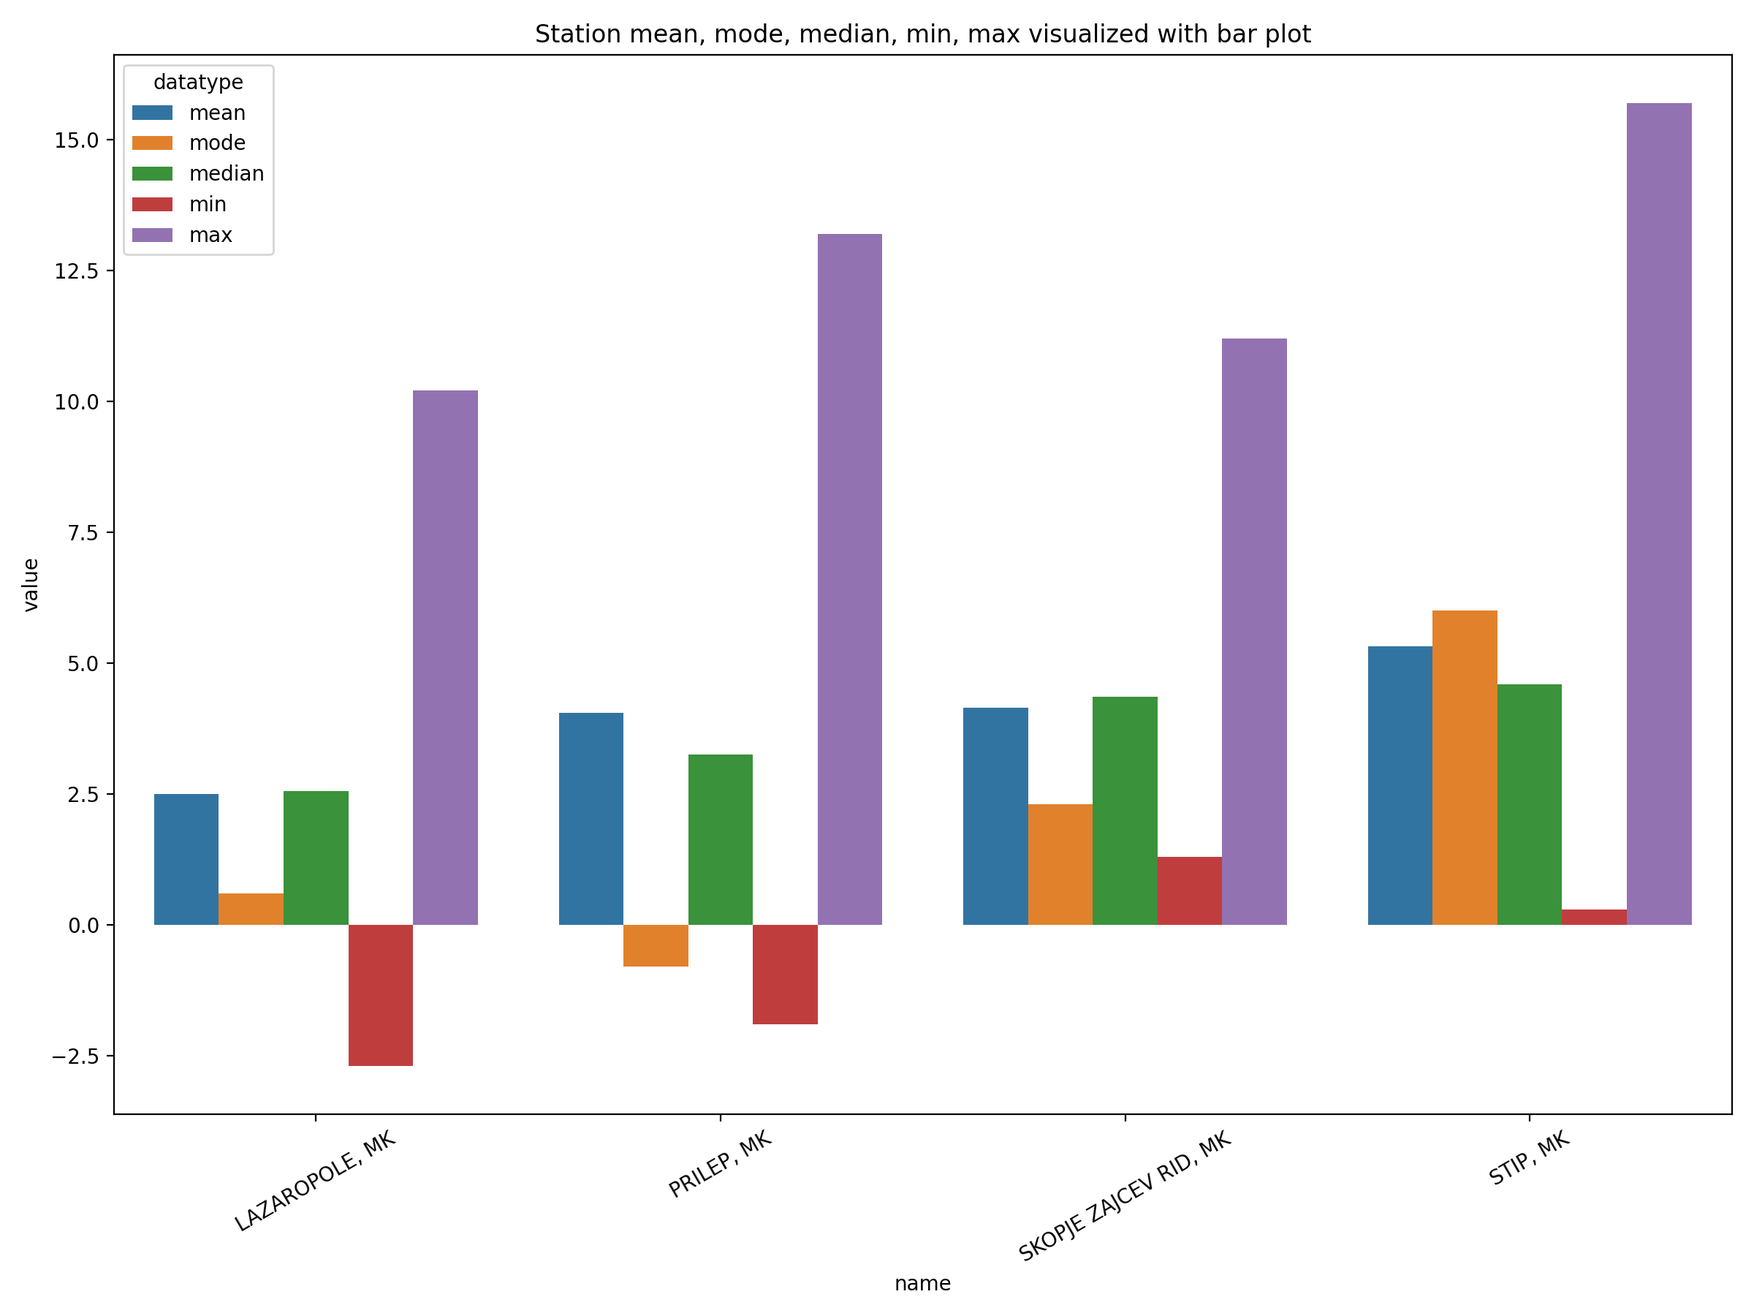
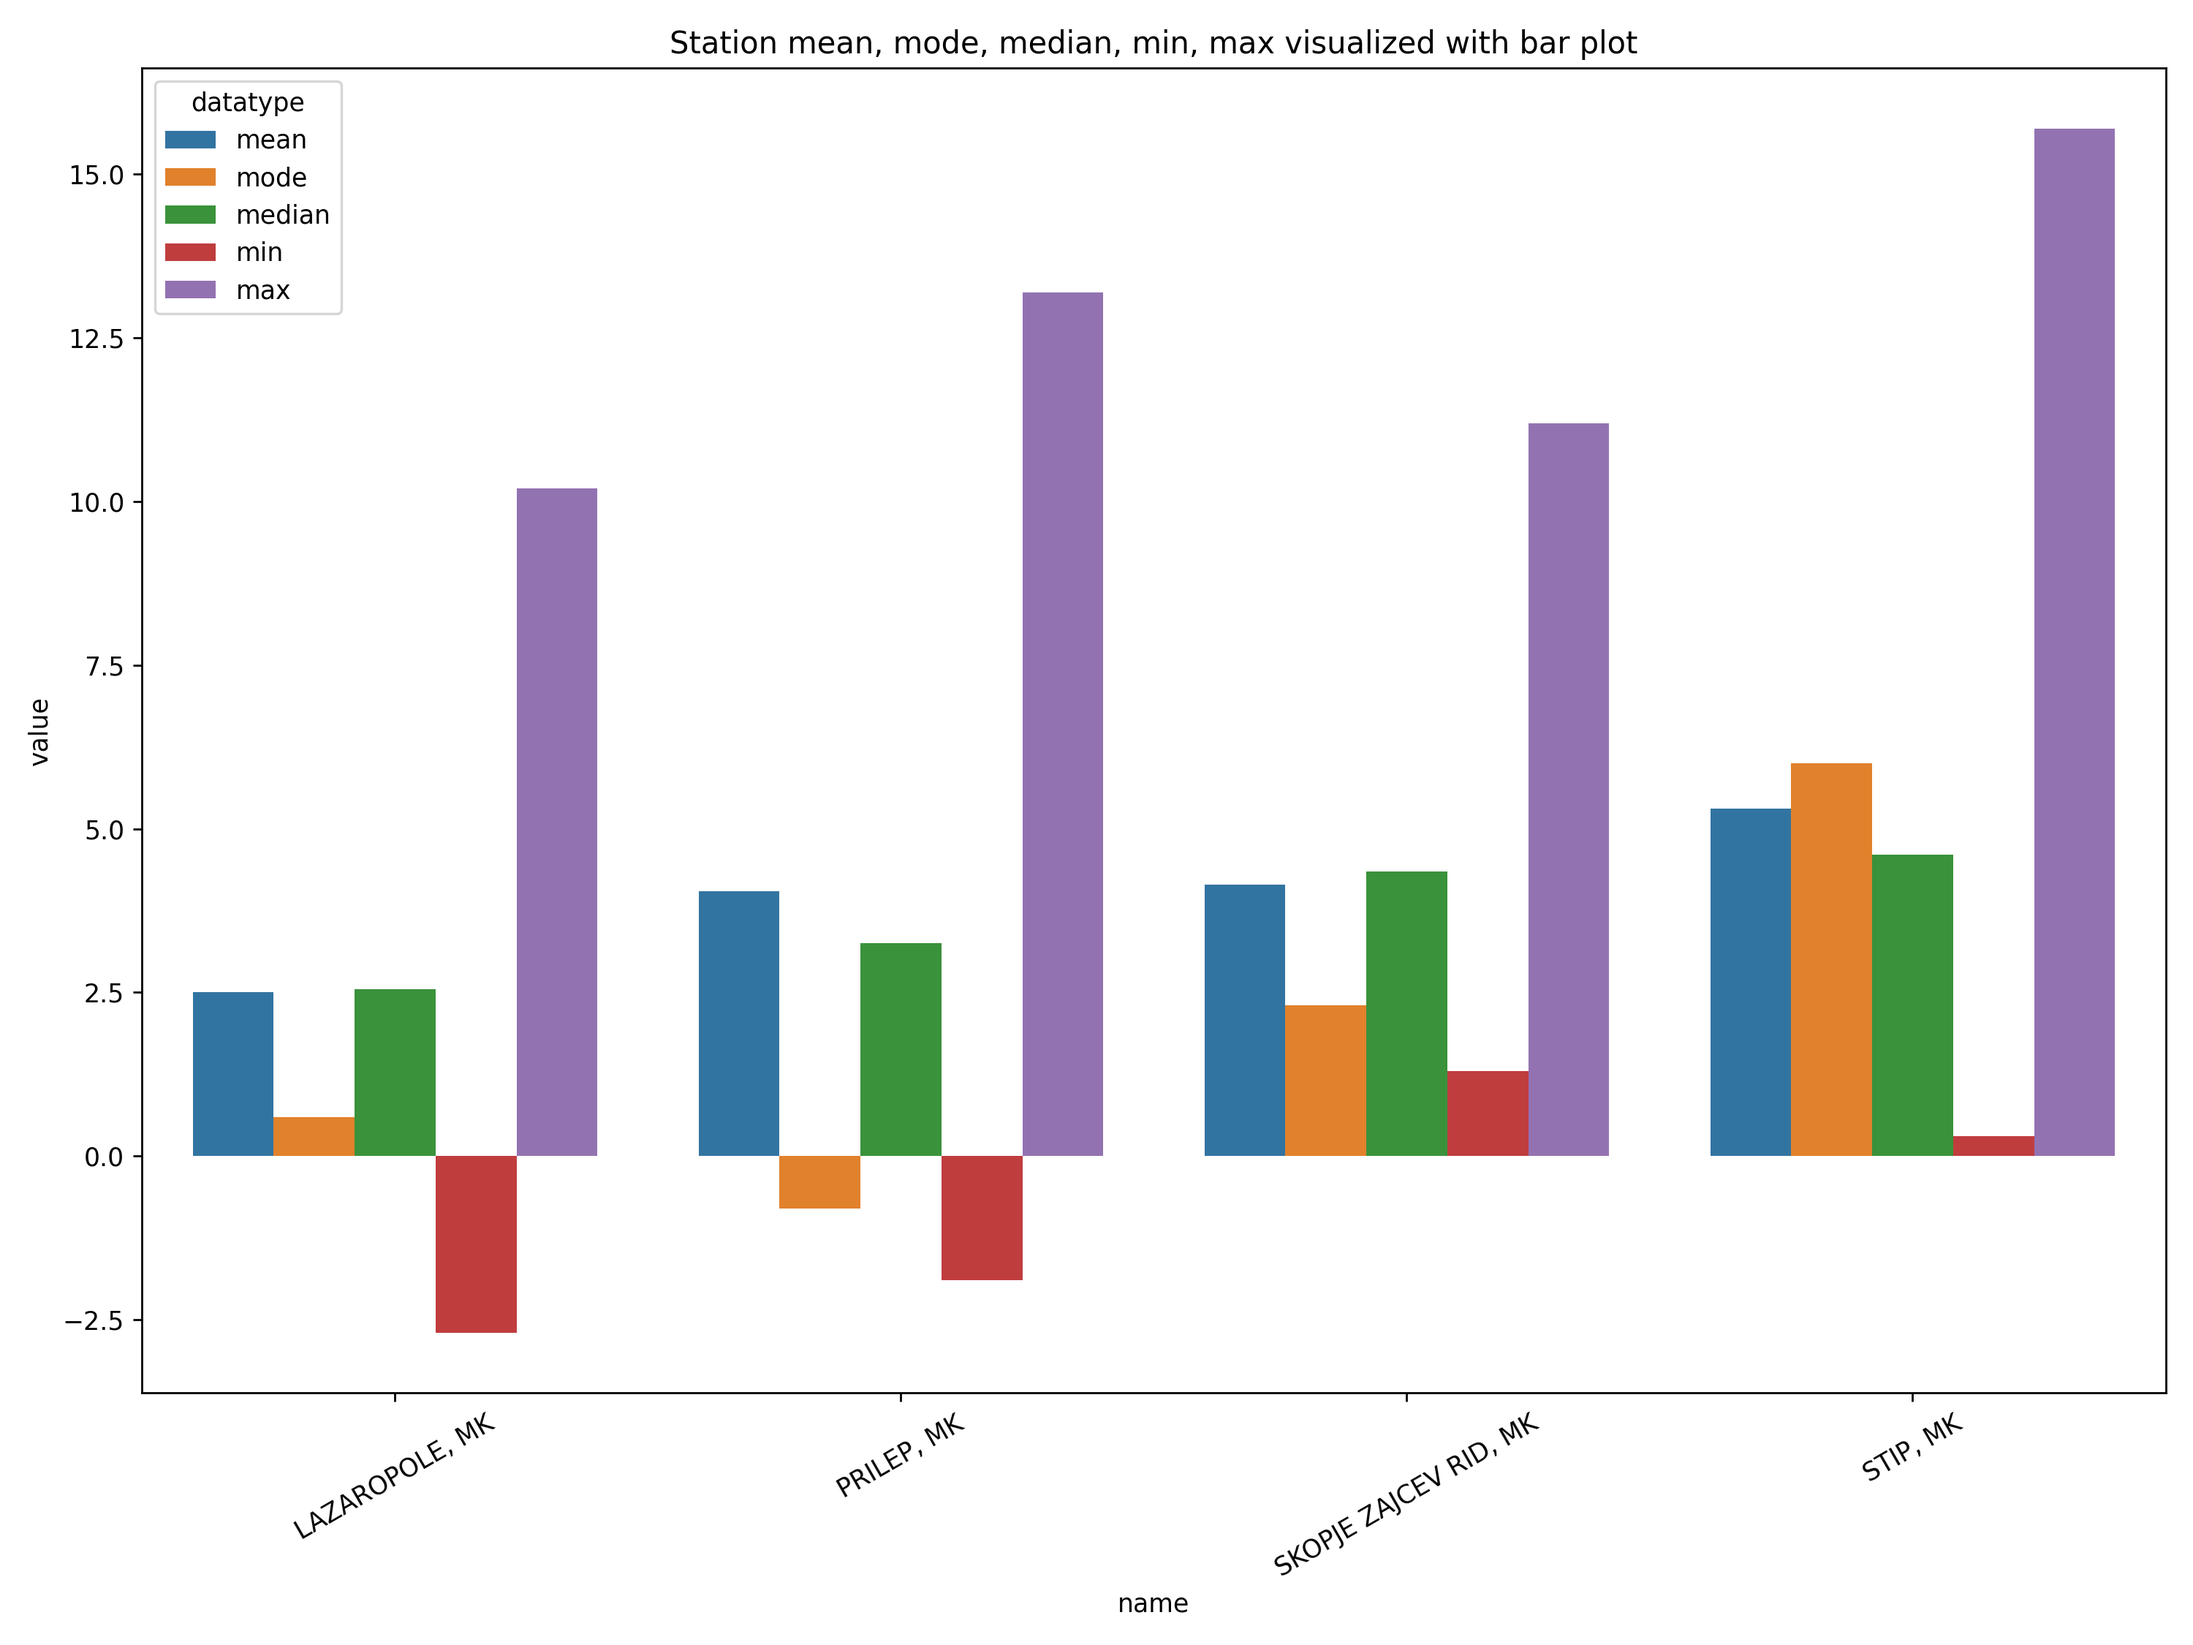
Added requirements.txt

diff --git a/API.py b/API.py
@@ -6,27 +6,43 @@ class GHCND:
     url = None
     headers = None
 
+    # Constructor setting the endpoint and the api key
     def __init__(self, url, api_key):
         self.headers = {'token': api_key}
         self.url = url
 
     def make_request(self, **params):
+        # Set the data set to 'GHCND' and the data type to 'TAVG' (The average temperature during the day)
         params['datasetid'] = 'GHCND'
         params['datatypeid'] = 'TAVG'
+
+        # Make a request to the api
         response = requests.get(self.url, params=params, headers=self.headers).json()
 
+        # If we get a response save it to a dataframe and delete unnecessary columns
         if 'results' in response:
-            # Convert the 'results' to a DataFrame
             df = pd.DataFrame(response['results'])
             del df['attributes']
             del df['datatype']
+            # Format date to YYYY-MM-DD format
             df['date'] = pd.to_datetime(df['date']).dt.date
+            # Returns dataframe with all necessary information
             return self.__rename_station(df, params['locationid'])
 
+    # Rename values in the column station, from id to name (GHCND:MK000013577 -> LAZAROPOLE, MK)
     def __rename_station(self, df, locationid):
+        # Station endpoint where the data for station names is located
         url = 'https://www.ncei.noaa.gov/cdo-web/api/v2/stations'
         params = {'locationid': locationid}
-        station_df = pd.DataFrame(requests.get(url, params=params, headers=self.headers).json()['results'])
-        station_df = station_df.drop(['mindate', 'maxdate', 'latitude', 'longitude', 'datacoverage', 'elevationUnit'], axis=1)
-        return pd.merge(df, station_df, left_on='station', right_on='id').drop(['id', 'station'], axis=1)
 
+        # Make a request to the api
+        response = requests.get(url, params=params, headers=self.headers).json()
+
+        # If we get a response save it to a dataframe
+        if 'result' in response:
+            station_df = pd.DataFrame(response['results'])
+            # Delete unnecessary columns
+            station_df = station_df.drop(['mindate', 'maxdate', 'latitude', 'longitude',
+                                          'datacoverage', 'elevationUnit'], axis=1)
+            # Merge the dataframes based on station ids
+            return pd.merge(df, station_df, left_on='station', right_on='id').drop(['id', 'station'], axis=1)

diff --git a/main.py b/main.py
@@ -4,26 +4,32 @@ import os
 from API import GHCND
 import Visualize as plot
 
+# Loads the .env file, where the api key is stored
 load_dotenv('.env')
 
+# Create a GHCND object, by passing it the endpoint and api key
 api = GHCND('https://www.ncei.noaa.gov/cdo-web/api/v2/data', os.getenv('API_KEY'))
-df = api.make_request(locationid='FIPS:MK', startdate='2023-12-01', enddate='2023-12-30',
-                      units='metric', limit='1000', offset='1')
 
+# Making a request to the api, and storing the results in df_one dataframe.
+df_one = api.make_request(locationid='FIPS:MK', startdate='2023-12-01', enddate='2023-12-30',
+                          units='metric', limit='1000', offset='1')
+
+# Making a request to the api, and storing the results in df_two dataframe.
 df_two = api.make_request(locationid='FIPS:MK', startdate='2023-11-01', enddate='2023-11-30',
                           units='metric', limit='1000', offset='1')
 
-plot.station_line_plot(df)
-plot.overall_line_plot(df)
-plot.station_scatter_plot(df)
-plot.overall_scatter_plot(df)
-plot.heatmap(df)
-plot.bar_plot(df)
-plot.violin_plot(df)
-plot.compare_station_line_plot(df, df_two)
-plot.compare_overall_line_plot(df, df_two)
-plot.compare_station_scatter_plot(df, df_two)
-plot.compare_overall_scatter_plot(df, df_two)
-plot.compare_heatmap(df, df_two)
-plot.compare_violin_plot(df, df_two)
-plot.compare_bar_plot(df, df_two)
+# Creating all the plots and saving them in the results folder
+plot.station_line_plot(df_one)
+plot.overall_line_plot(df_one)
+plot.station_scatter_plot(df_one)
+plot.overall_scatter_plot(df_one)
+plot.heatmap(df_one)
+plot.bar_plot(df_one)
+plot.violin_plot(df_one)
+plot.compare_station_line_plot(df_one, df_two)
+plot.compare_overall_line_plot(df_one, df_two)
+plot.compare_station_scatter_plot(df_one, df_two)
+plot.compare_overall_scatter_plot(df_one, df_two)
+plot.compare_heatmap(df_one, df_two)
+plot.compare_violin_plot(df_one, df_two)
+plot.compare_bar_plot(df_one, df_two)

diff --git a/Visualize.py b/Visualize.py
@@ -51,7 +51,7 @@ def __store_figure(filename):
     figure = plt.gcf()
     figure.set_size_inches(12, 9)
 
-    plt.savefig(f'results/{filename}.png', dpi=200)
+    plt.savefig(f'results/{filename}.png', dpi=250)
 
     # Clears figure and axis
     plt.clf()
